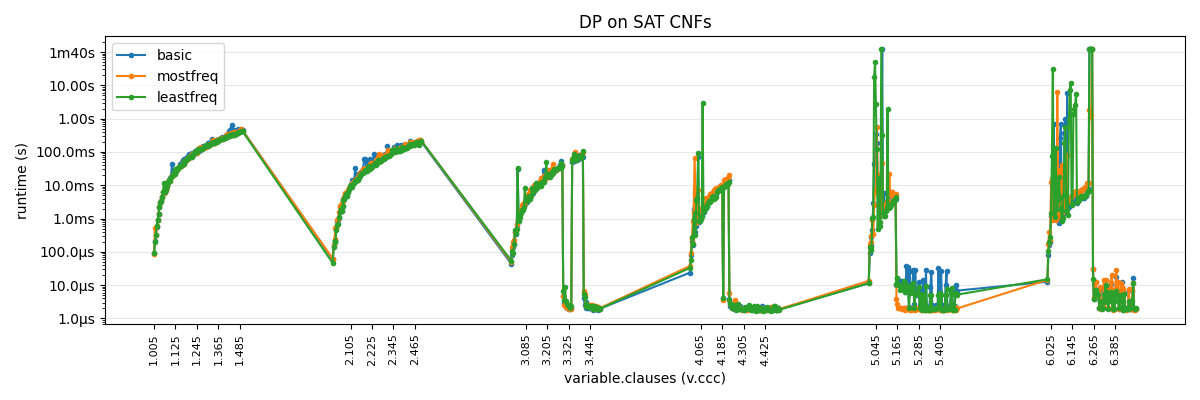
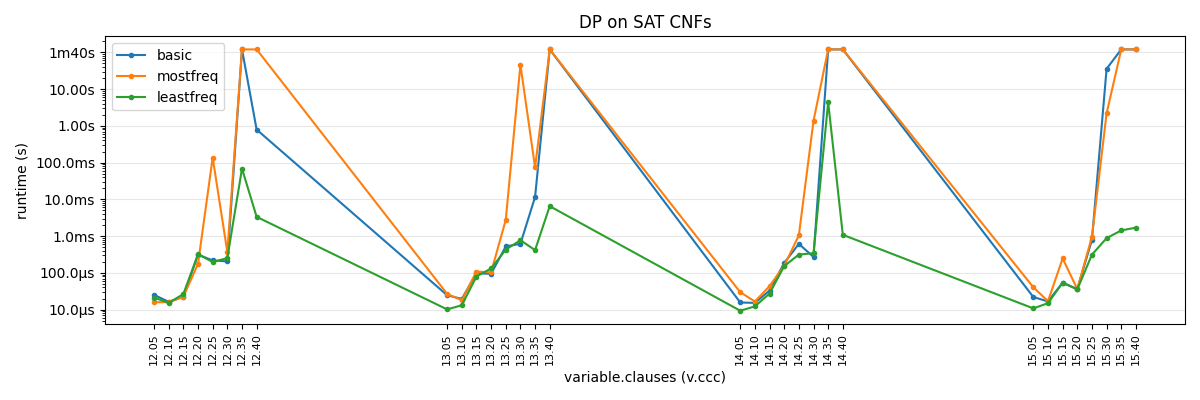
updated the graphs

diff --git a/make_dpll_plots.py b/make_dpll_plots.py
@@ -14,11 +14,11 @@ from helpers import load_dimacs
 from solvers.dpll_solver import dpll_solver
 
 # ===== CONFIG =====
-VAR_START = 6
-VAR_END = 10
+VAR_START = 49
+VAR_END = 49
 VAR_COUNTS = list(range(VAR_START, VAR_END+1))
 
-MAX_CLAUSES = 200
+MAX_CLAUSES = 300
 CLAUSE_STEP = 5
 CLAUSE_COUNTS = list(range(CLAUSE_STEP, MAX_CLAUSES+1, CLAUSE_STEP))
 

diff --git a/make_basic_comparison.py b/make_basic_comparison.py
@@ -29,8 +29,8 @@ from solvers.dp_solver import dp_solver
 from solvers.dpll_solver import dpll_solver
 
 # ===== CONFIGURATION =====
-VAR_START = 6
-VAR_END = 8
+VAR_START = 1
+VAR_END = 20
 VAR_COUNTS = list(range(VAR_START, VAR_END+1))
 
 MAX_CLAUSES = 40

diff --git a/make_dp_plots.py b/make_dp_plots.py
@@ -14,8 +14,8 @@ from helpers import load_dimacs
 from solvers.dp_solver import dp_solver
 
 # ===== CONFIG =====
-VAR_START = 1
-VAR_END = 10
+VAR_START = 10
+VAR_END = 15
 VAR_COUNTS = list(range(VAR_START, VAR_END+1))
 
 MAX_CLAUSES = 40
